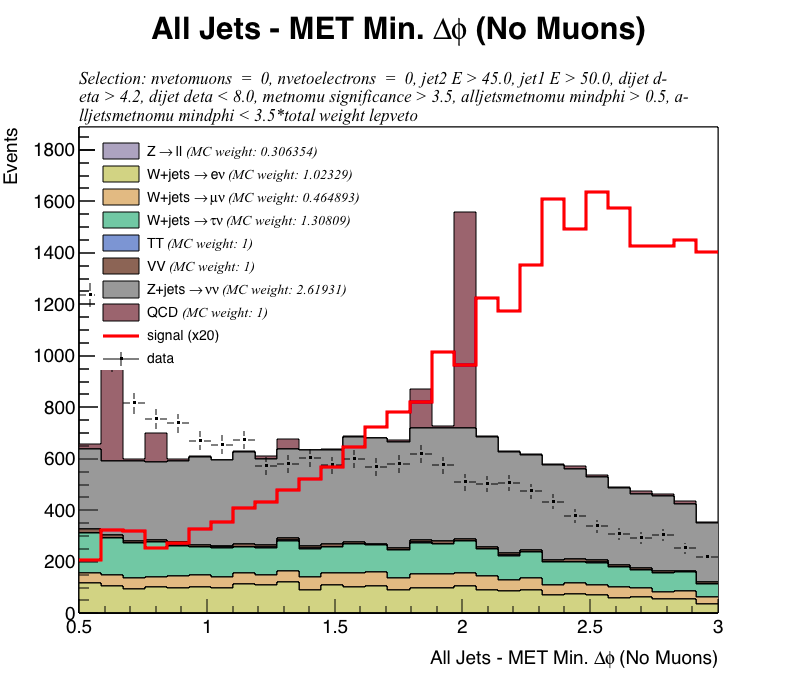
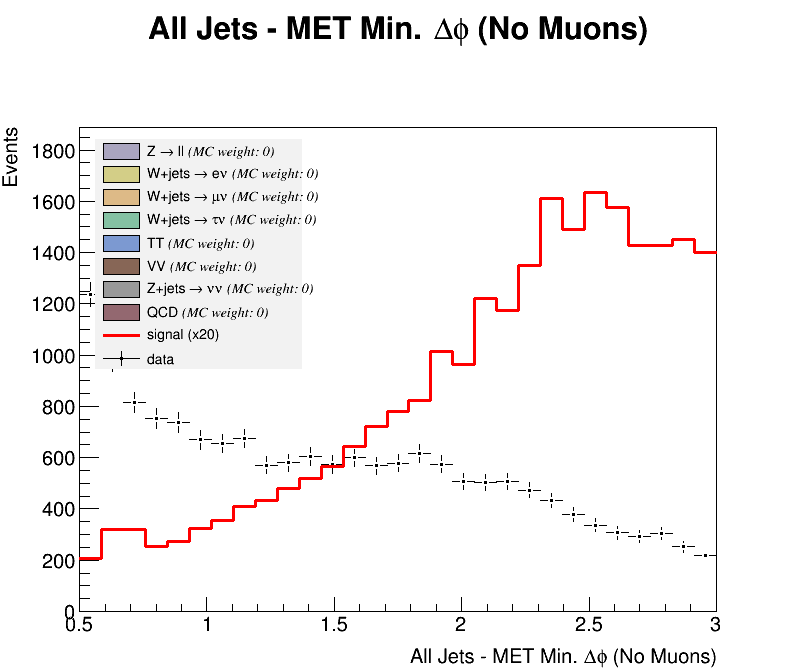
changed map inputs of histoplots to accept mc weights maps, stil has bugs

Changed region(s): [[0.0, 0.0938, 0.9045, 1.0], [0.1809, 0.0, 0.8141, 0.0625]]

diff --git a/src/super_chains.cpp b/src/super_chains.cpp
@@ -28,9 +28,7 @@ std::vector<DataChain*> SuperChains::get_bg_chains()
 		return bg_chains;
 }
 
-std::map<const char*, std::map<const char*, double> > SuperChains::build_mc_weight_map(std::vector<Variable*>* discriminating_vars,
-																																																																									std::vector<Variable*>* cut_vars,
-																																																																									bool with_cut)
+std::map<const char*, std::map<const char*, double> > SuperChains::build_mc_weight_map(std::vector<Variable*>* discriminating_vars,	std::vector<Variable*>* cut_vars,	bool with_cut)
 {
 	 std::vector<DataChain*> bg_chains = get_bg_chains();
 	 std::map<const char*, std::map<const char*, double> > mc_weights;
@@ -38,8 +36,10 @@ std::map<const char*, std::map<const char*, double> > SuperChains::build_mc_weig
   for (int i = 0; i < bg_chains.size(); i++)
   {
     mc_weights[bg_chains[i]->label] = get_var_mc_weights(bg_chains[i], discriminating_vars, cut_vars, with_cut);
+    //double test2  = bg_chains[i]->mc_weights[(*discriminating_vars)[i]->name];
+    double test = mc_weights[bg_chains[i]->label][(*discriminating_vars)[0]->name];
+    std::cout<<bg_chains[i]->label<<", "<< (*discriminating_vars)[0]->name<<" "<<"test all jets mc weight = "<<test<<"\n";//, test2 = "<<test2<<"\n";
   }
-
   return set_bg_zjets_vv_weights(mc_weights, discriminating_vars);
 }
 
@@ -54,6 +54,7 @@ std::map<const char*, double> SuperChains::get_var_mc_weights(DataChain* bg_chai
 	   {
 	   		var_weights[(*vars)[i]->name] = MCWeights::calc_mc_weight(data_chain, get_bg_chains(),
 																																																																bg_chain, (*vars)[i], with_cut, cut_vars);
+					//std::cout<<"get var weight func in super chains gives: "<<bg_chain->label<<", "<<(*vars)[i]->name<<" = "<<var_weights[(*vars)[i]->name] <<"\n";
 	   }
 	   else
 	   {
@@ -64,9 +65,7 @@ std::map<const char*, double> SuperChains::get_var_mc_weights(DataChain* bg_chai
 	 return var_weights;
 }
 
-std::map<const char*, std::map<const char*, double> > SuperChains::set_bg_zjets_vv_weights(std::map<const char*, std::map<const char*,
-																																																																																											double> > mc_weights,
-																																																																																											std::vector<Variable*>* vars)
+std::map<const char*, std::map<const char*, double> > SuperChains::set_bg_zjets_vv_weights(std::map<const char*, std::map<const char*,  double> > mc_weights, std::vector<Variable*>* vars)
 {
 	 for (int i = 0; i < (*vars).size(); i++)
 	 {

diff --git a/src/histo_plot.cpp b/src/histo_plot.cpp
@@ -69,9 +69,13 @@ std::string HistoPlot::get_selection(Variable* variable, std::vector<Variable*>*
 
 std::string HistoPlot::add_mc_to_selection(DataChain* bg_chain, Variable* variable, std::string selection)
 {
+std::cout<<"mc weight test in add mc to sel"<<bg_chain->mc_weights[variable->name]<<"\n";
   if (strcmp(bg_chain->label, "data_chain") && strcmp(bg_chain->label, "signal_chain"))
   {
+double test  = bg_chain->mc_weights[variable->name];
+std::cout<<"variable name = "<<variable->name<<"--mc weight = "<< test<<"\n";
 	   std::string mc_weight_str = get_string_from_double(bg_chain->mc_weights[variable->name]);
+//std::cout<<"add mc to selection func in histo plot mc weight str: "<<bg_chain->mc_weights[]<<"\n""mc weight double = "<< test<<"\n";
 
     return selection.insert(selection.find("*") + 1, mc_weight_str + "*");
   }
@@ -150,7 +154,7 @@ void HistoPlot::draw_subtitle(Variable* variable, std::vector<Variable*>* variab
 		std::string line_2 = "#font[12]{" + selection.substr(88, 88) + "-}";
 		std::string line_3 = "#font[12]{" + selection.substr(176, 88) + "}";
 
-	 TLatex t;
+	 /*TLatex t;
 	 t.SetTextSize(0.03);
 	 t.DrawLatexNDC(0.1, 0.97, line_1.c_str());
 		t.Draw();
@@ -163,7 +167,7 @@ void HistoPlot::draw_subtitle(Variable* variable, std::vector<Variable*>* variab
 		TLatex f;
 		f.SetTextSize(0.03);
 		f.DrawLatexNDC(0.1, 0.91, line_3.c_str());
-		f.Draw();
+		f.Draw();*/
 }
 
 
@@ -173,6 +177,7 @@ THStack HistoPlot::draw_stacked_histo(TLegend* legend, Variable* var, std::vecto
   THStack stack(var->name_styled, "");
 
   for(int i = 0; i < bg_chains.size(); i++) {
+    std::cout<<"adding background "<<bg_chains[i]->label<<", "<<var->name<<" with mc = "<<bg_chains[i]->mc_weights[bg_chains[i]->label]<<"\n";
     TH1F* single_bg_histo = draw_background(bg_chains[i], var, colours()[i], with_cut, variables);
     stack.Add(single_bg_histo);
     std::string legend_str(bg_chains[i]->legend);

diff --git a/src/mc_weights.cpp b/src/mc_weights.cpp
@@ -30,9 +30,10 @@ double MCWeights::calc_mc_weight(DataChain* data, std::vector<DataChain*> bg_cha
 																																	Variable* var, bool with_cut, std::vector<Variable*>* variables)
 {
   std::string selection   = get_mc_selection_str(bg_chain, var, variables);
-	 double data_in_ctrl     = get_nevents(data, var, with_cut, variables, selection);
+  double data_in_ctrl     = get_nevents(data, var, with_cut, variables, selection);
   double ctrl_mc_in_ctrl  = get_nevents(bg_chain, var, with_cut, variables, selection);
   double other_bg_in_ctrl = get_all_bg_in_ctrl(bg_chains, var, with_cut, variables, selection) - ctrl_mc_in_ctrl;
+			//std::cout<<"calc mc weights func in mc_wieghts gives data in control =  "<<data_in_ctrl<<"\n"<<"bg to be weighted = "<<ctrl_mc_in_ctrl<<"\n"<<"other gb = "<<other_bg_in_ctrl<<"\n";
 
   return (data_in_ctrl - other_bg_in_ctrl) / ctrl_mc_in_ctrl;
 }

diff --git a/src/main.cpp b/src/main.cpp
@@ -12,8 +12,9 @@ void produce_graphs(bool with_cut) {
 		std::vector<DataChain*> bg_chains = super_chains->get_bg_chains();
 		DataChain* signal_chain 										= super_chains->signal_chain;
 		DataChain* data_chain 												= super_chains->data_chain;
+		std::map<const char*, std::map<const char*, double> >* mc_weights_ptr=super_chains->mc_weights; 
 
-  for (int i = 0; i < vars.size(); i++)
+  for (int i = 0; i < 1/*vars.size()*/; i++)
   {
   		HistoPlot::draw_plot(vars[i], bg_chains, signal_chain, data_chain, true, &cut_vars);
   }
